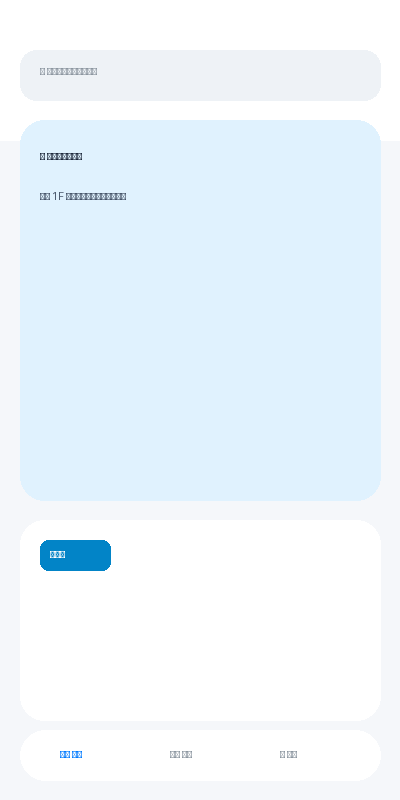
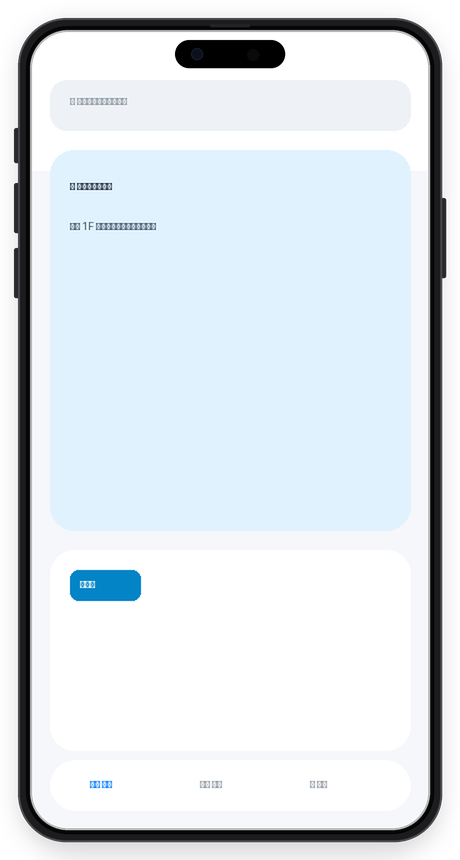
chsange1

Changed region(s): [[0.03, 0.0, 0.99, 1.0]]

diff --git a/README.md b/README.md
@@ -12,7 +12,7 @@
 
 <br/>
 
-![EasyFind Preview GIF](docs/assets/demo.gif)
+<img src="docs/assets/demo.gif" width="300" alt="EasyFind Demo GIF with iPhone Frame">
 
 <br/>
 
